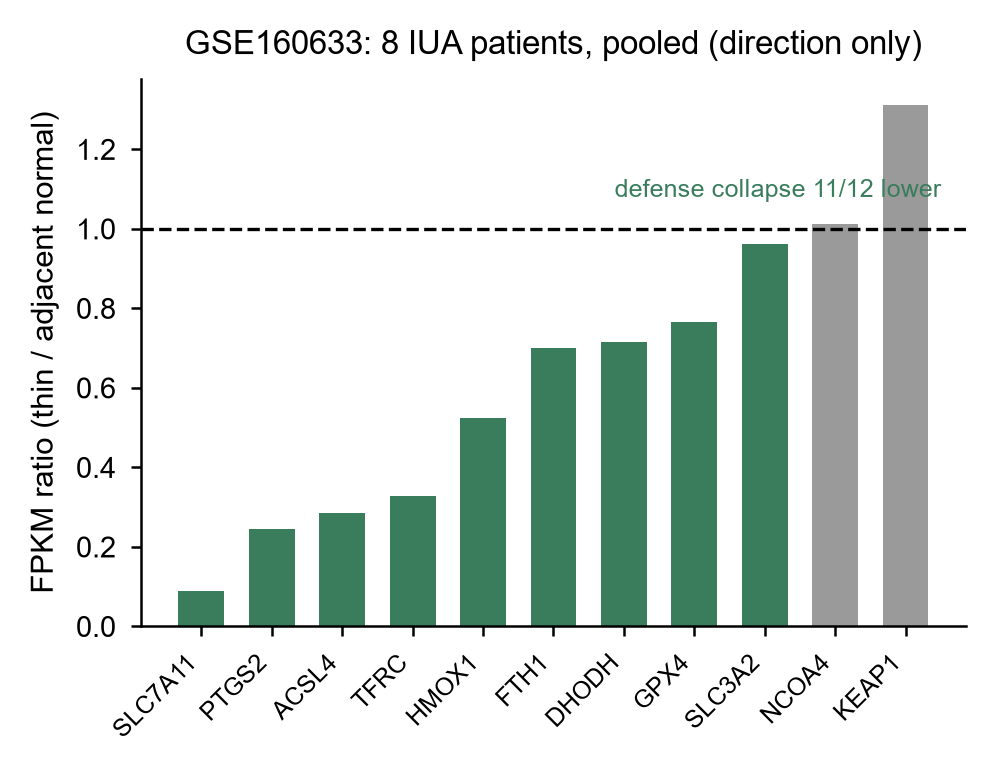
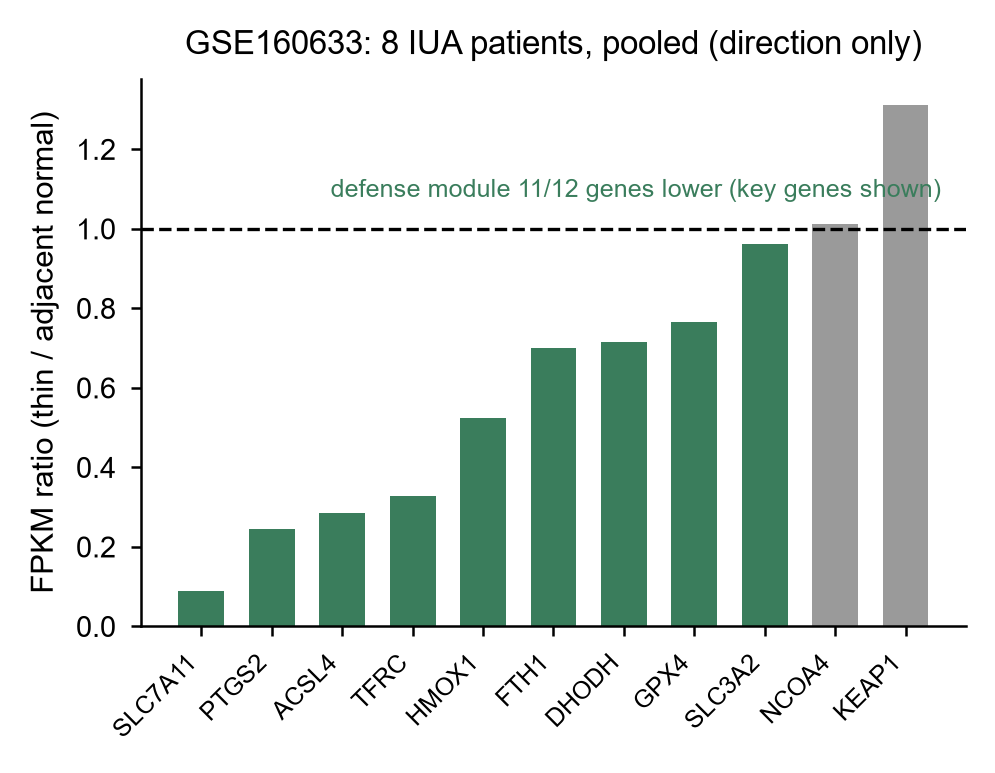
Fig check round: FigS1 label overlap fix, Fig7b annotation clarity; sync code

Changed region(s): [[0.3427, 0.2173, 0.9035, 0.2794]]

diff --git a/code/23_p2_pubfigs.py b/code/23_p2_pubfigs.py
@@ -207,7 +207,7 @@ ax.axhline(1, color="k", lw=0.8, ls="--")
 ax.set_xticks(range(len(kg))); ax.set_xticklabels(kg.gene, rotation=45, ha="right", fontsize=6)
 ax.set_ylabel("FPKM ratio (thin / adjacent normal)")
 ax.set_title("GSE160633: 8 IUA patients, pooled (direction only)")
-ax.text(len(kg) - 0.5, 1.08, "defense collapse 11/12 lower", ha="right", fontsize=6, color=C_DEF)
+ax.text(len(kg) - 0.5, 1.08, "defense module 11/12 genes lower (key genes shown)", ha="right", fontsize=6, color=C_DEF)
 ax.spines[["top", "right"]].set_visible(False)
 fig.tight_layout()
 save(fig, "P2fig7b_pub_gse160633")
@@ -221,8 +221,12 @@ colors = [C_IUA if g < 0 else C_CTL for g in sr.hedges_g]
 ax.barh(range(len(sr)), sr.hedges_g, color=colors, height=0.6)
 ax.set_yticks(range(len(sr))); ax.set_yticklabels(sr.label, fontsize=6)
 for i, (g, wp, np_) in enumerate(zip(sr.hedges_g, sr.welch_p, sr.n_AS_samples)):
-    ax.text(g + (0.06 if g > 0 else -0.06), i, f"p={wp:.3f} (n={np_}v{sr.n_CTL_samples.iloc[i]})",
-            va="center", ha="left" if g > 0 else "right", fontsize=5)
+    if g < -2.5:  # 超长负条：文字放条内右端白字，防止越出轴与 y 标签重叠
+        ax.text(g + 0.06, i, f"p={wp:.3f} (n={np_}v{sr.n_CTL_samples.iloc[i]})",
+                va="center", ha="left", fontsize=5, color="white", fontweight="bold")
+    else:
+        ax.text(g + (0.06 if g > 0 else -0.06), i, f"p={wp:.3f} (n={np_}v{sr.n_CTL_samples.iloc[i]})",
+                va="center", ha="left" if g > 0 else "right", fontsize=5)
 ax.axvline(0, color="k", lw=0.6)
 ax.set_xlabel("Hedges g (sample-level, AS vs Control)")
 ax.set_title("Sample-level robustness: 7/7 direction-consistent")
